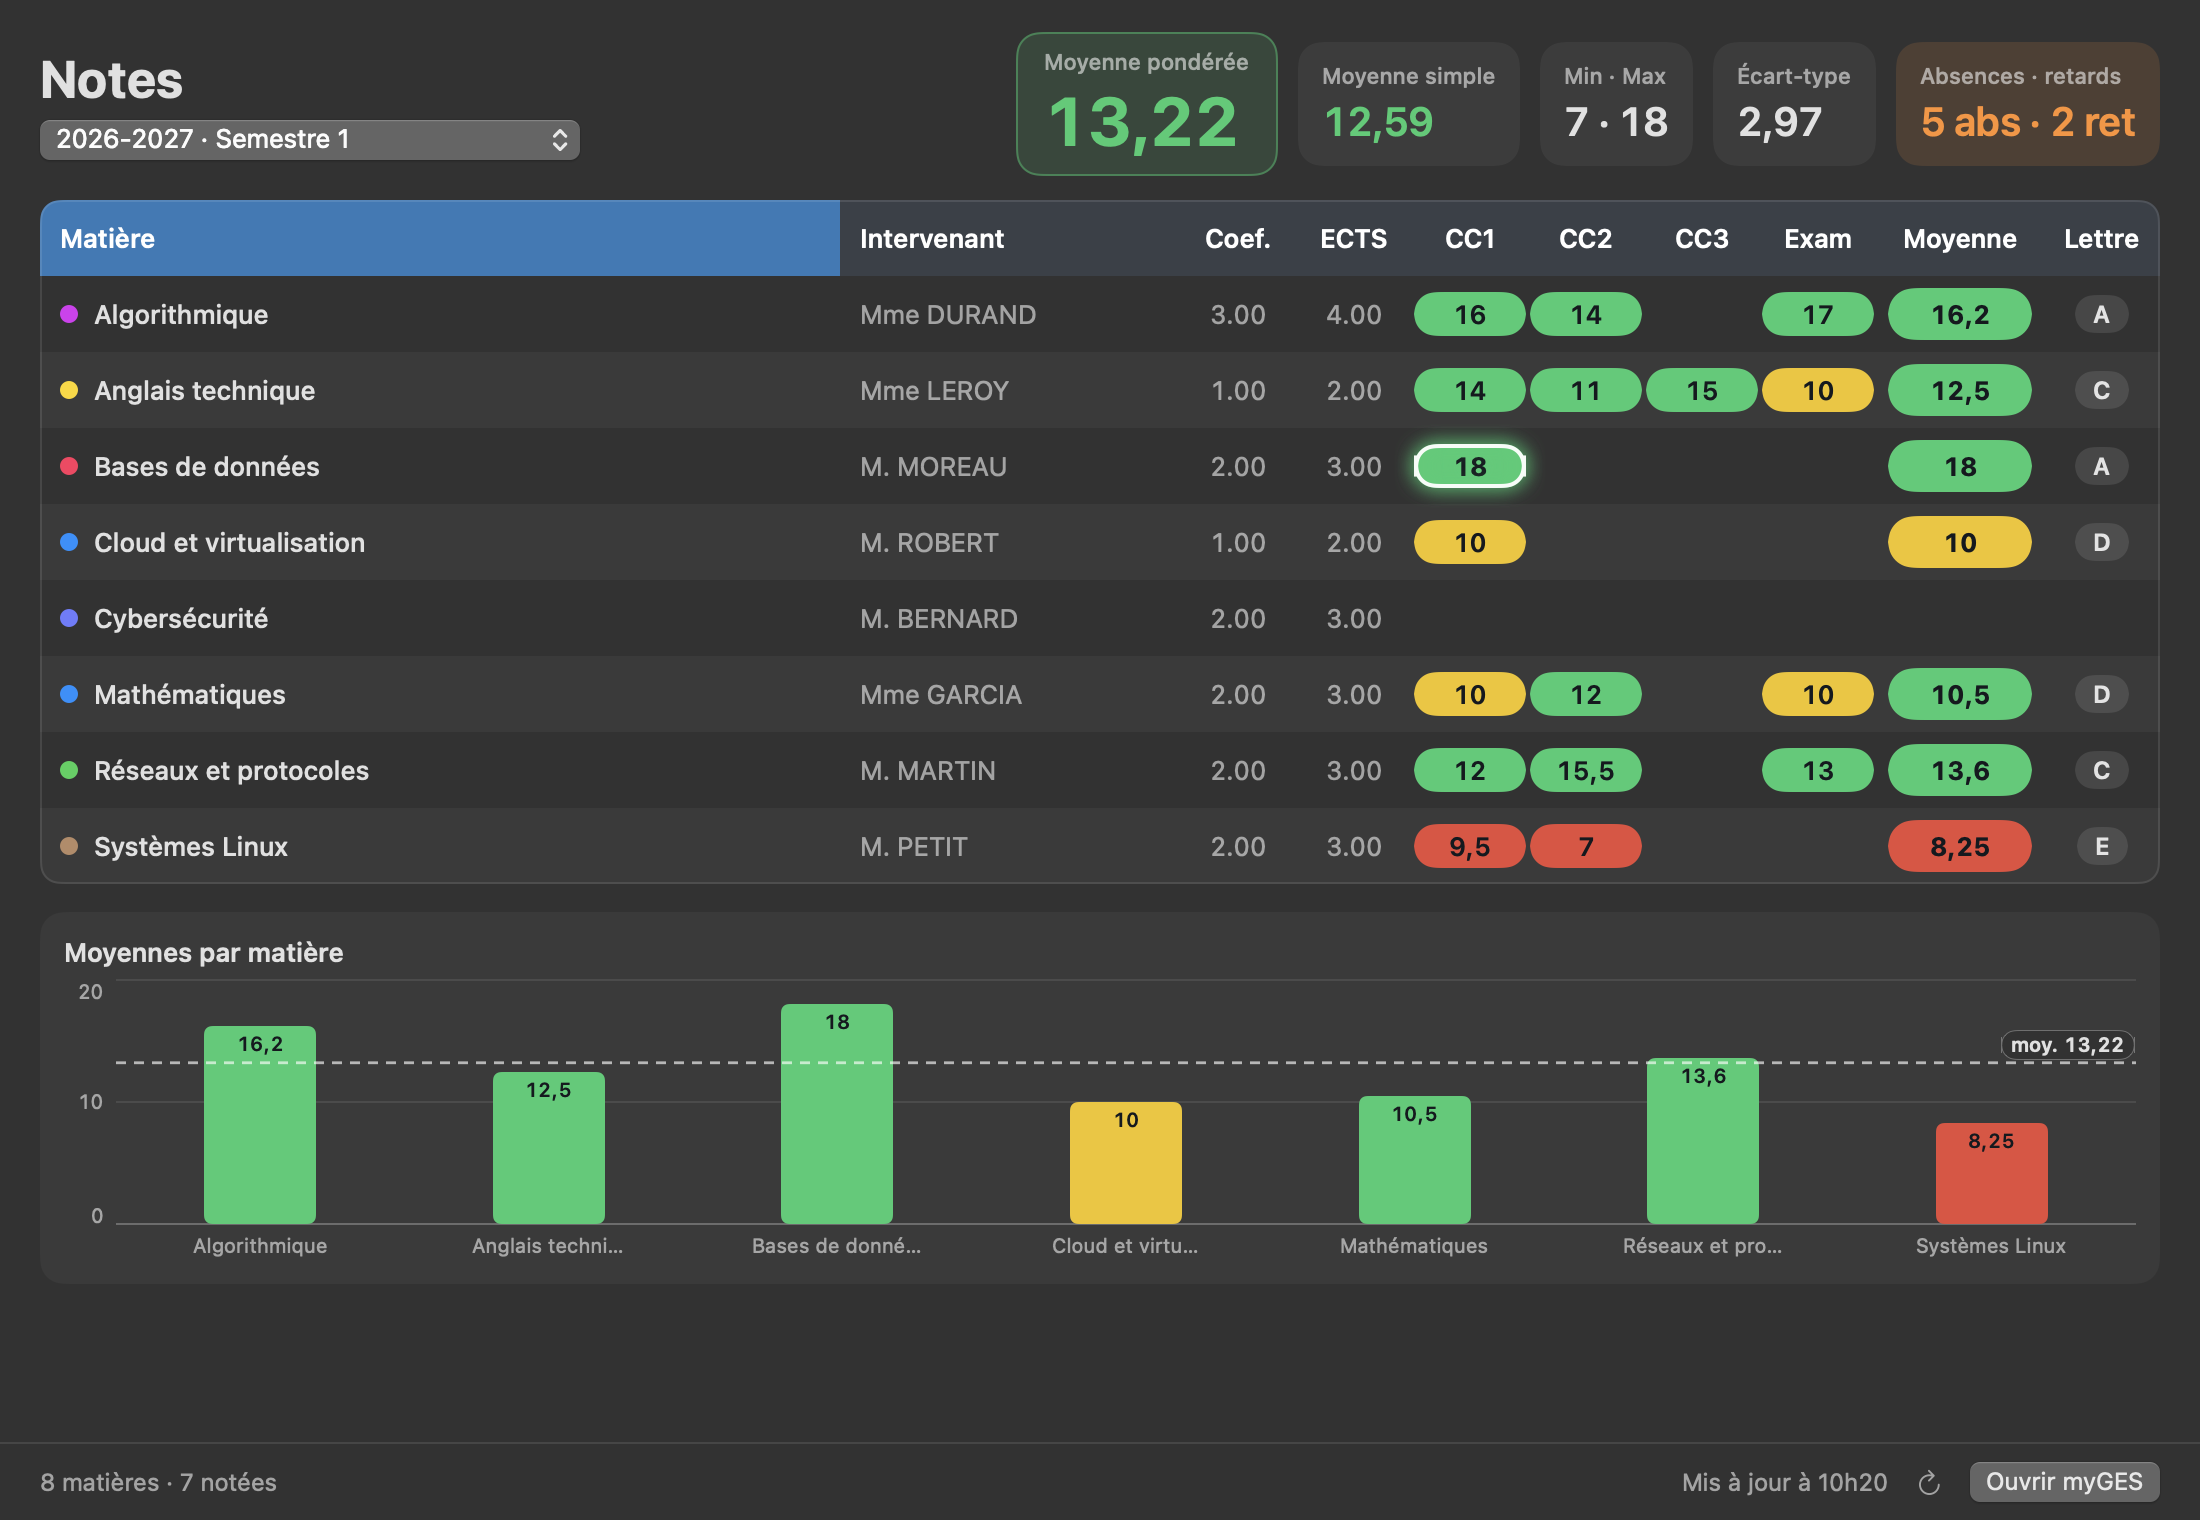
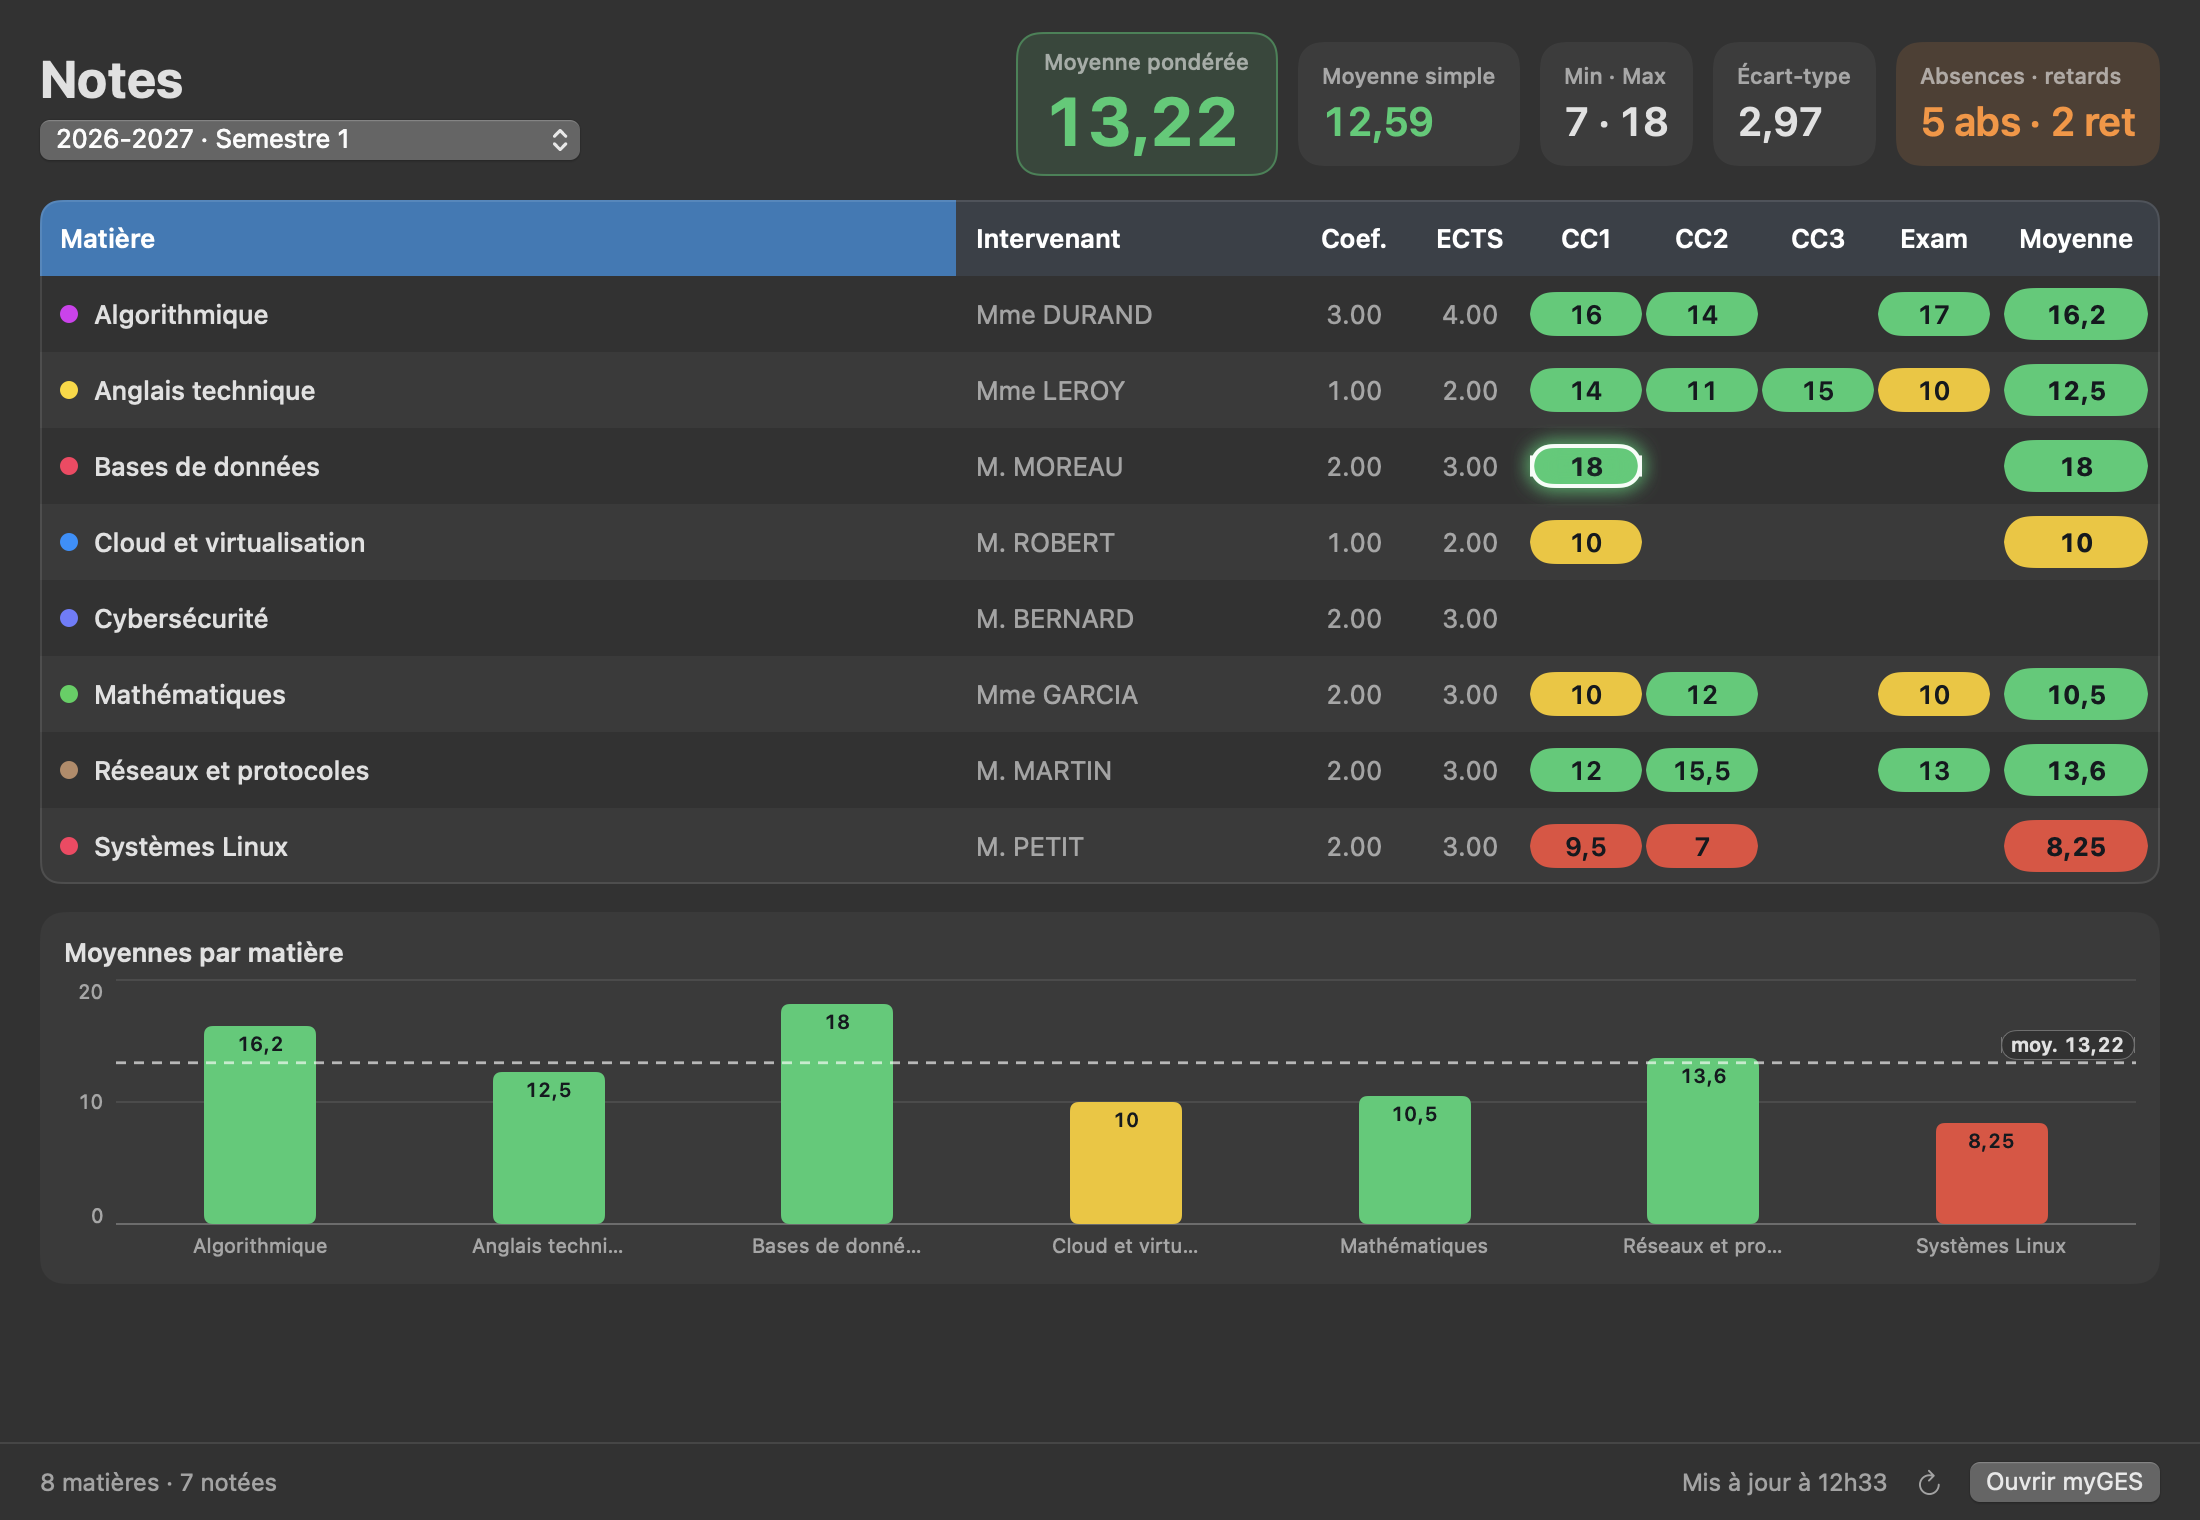
feat(notes): moyenne calculée dès la première note, colonne Lettre retirée
La moyenne d'une matière n'apparaissait que si myGES la fournissait. Elle est
maintenant calculée quand elle manque : CC seul, examen seul, ou moitié CC
moitié examen. La moyenne de myGES reste prioritaire. La moyenne pondérée et
le graphique comptent ces matières.

diff --git a/Sources/EduBar/Views/GradesTableView.swift b/Sources/EduBar/Views/GradesTableView.swift
@@ -219,7 +219,6 @@ struct GradesTableView: View {
                         ForEach(0..<ccCount, id: \.self) { headerCell("CC\($0 + 1)", fill: Self.headerDark) }
                         headerCell("Exam", fill: Self.headerDark)
                         headerCell(L10n.tr("Moyenne", "Average"), fill: Self.headerDark, width: Self.averageWidth)
-                        headerCell(L10n.tr("Lettre", "Letter"), fill: Self.headerDark)
                     }
                     ForEach(Array(subjects.enumerated()), id: \.element.id) { index, s in
                         let fill = index % 2 == 0 ? Color.clear : Color.primary.opacity(0.045)
@@ -240,9 +239,8 @@ struct GradesTableView: View {
                                 pill(value, fresh: fresh.contains("\(s.course)|CC\(i + 1)")).cell(fill: fill)
                             }
                             pill(s.exam, fresh: fresh.contains("\(s.course)|Examen")).cell(fill: fill)
-                            pill(s.average, fresh: fresh.contains("\(s.course)|Moyenne"), wide: true)
+                            pill(s.displayAverage, fresh: fresh.contains("\(s.course)|Moyenne"), wide: true)
                                 .cell(fill: fill, width: Self.averageWidth)
-                            letter(s.average != nil ? s.letterMark : nil).cell(fill: fill)
                         }
                     }
                 }
@@ -282,19 +280,6 @@ struct GradesTableView: View {
         }
     }
 
-    @ViewBuilder
-    private func letter(_ value: String?) -> some View {
-        if let value, !value.isEmpty {
-            Text(value)
-                .font(.system(size: 12, weight: .semibold))
-                .padding(.horizontal, 9)
-                .padding(.vertical, 2)
-                .background(Capsule().fill(Color.primary.opacity(0.12)))
-        } else {
-            Text("")
-        }
-    }
-
     private func title(_ s: GradeBook.Subject) -> String {
         s.shortCourse.prefix(1).uppercased() + s.shortCourse.dropFirst()
     }
@@ -302,7 +287,7 @@ struct GradesTableView: View {
     // MARK: - Graphique
 
     private func chart(book: GradeBook, period: GradeBook.Period) -> some View {
-        let items = book.subjects(in: period).compactMap { s in s.average.map { (s, $0) } }
+        let items = book.subjects(in: period).compactMap { s in s.displayAverage.map { (s, $0) } }
         let weighted = book.weightedAverage(in: period)
         return VStack(alignment: .leading, spacing: 6) {
             Text(L10n.tr("Moyennes par matière", "Averages by subject")).font(.system(size: 13, weight: .semibold))

diff --git a/Tests/EduBarCoreTests/MyGESTests.swift b/Tests/EduBarCoreTests/MyGESTests.swift
@@ -165,6 +165,37 @@ struct MyGESTests {
         #expect(try JSONDecoder().decode(GradeBook.Subject.self, from: JSONEncoder().encode(s)) == s)
     }
 
+    // MARK: Moyenne calculée
+
+    @Test func averageIsComputedWhenMyGESGivesNone() {
+        func s(_ grades: [Double], exam: Double? = nil, average: Double? = nil, cc: Double? = nil) -> GradeBook.Subject {
+            GradeBook.Subject(course: "M", grades: grades, exam: exam, average: average, ccAverage: cc)
+        }
+        // Une seule note suffit.
+        #expect(s([18]).displayAverage == 18)
+        #expect(s([15, 11.5]).displayAverage == 13.25)
+        // Examen seul.
+        #expect(s([], exam: 12).displayAverage == 12)
+        // CC et examen : moitié-moitié.
+        #expect(s([10, 14], exam: 16).displayAverage == 14)
+        // La moyenne de CC de myGES l'emporte sur la moyenne simple des notes.
+        #expect(s([10, 14], cc: 13).displayAverage == 13)
+        // La moyenne définitive de myGES reste prioritaire.
+        #expect(s([10, 14], exam: 16, average: 15.2).displayAverage == 15.2)
+        // Aucune note : pas de moyenne.
+        #expect(s([]).displayAverage == nil)
+    }
+
+    @Test func weightedAverageCountsComputedAverages() {
+        let book = GradeBook(subjects: [
+            .init(course: "A", grades: [10], coef: 1, trimester: 1, year: 2026),
+            .init(course: "B", grades: [12, 16], exam: 18, coef: 3, trimester: 1, year: 2026),
+            .init(course: "C", coef: 5, trimester: 1, year: 2026),
+        ])
+        // (10 × 1 + 16 × 3) / 4
+        #expect(book.weightedAverage(in: .init(year: 2026, trimester: 1, name: "S1")) == 14.5)
+    }
+
     // MARK: Périodes
 
     @Test func periodsSortedAndUnique() throws {
@@ -399,7 +430,8 @@ struct GradeStatsTests {
     @Test func marksAndStats() {
         #expect(book.marks(in: s1) == [12, 16, 14, 8])
         let st = book.stats(in: s1)
-        #expect(st.weighted == 14)
+        // « b » n'a pas de moyenne myGES : sa seule note (8) compte, (14 × 2 + 8 × 1) / 3.
+        #expect(st.weighted == 12)
         #expect(st.simple == 12.5)
         #expect(st.min == 8)
         #expect(st.max == 16)

diff --git a/Sources/EduBarCore/MyGES/GESGrades.swift b/Sources/EduBarCore/MyGES/GESGrades.swift
@@ -152,6 +152,19 @@ public struct GradeBook: Codable, Sendable, Equatable {
             return String(course[range.upperBound...])
         }
 
+        /// Moyenne affichée : celle de myGES quand elle existe, sinon calculée dès la première note.
+        /// CC seul : moyenne de CC ; examen seul : l'examen ; les deux : moitié CC, moitié examen.
+        public var displayAverage: Double? {
+            if let average { return average }
+            let cc = ccAverage ?? (grades.isEmpty ? nil : grades.reduce(0, +) / Double(grades.count))
+            switch (cc, exam) {
+            case let (cc?, exam?): return (cc + exam) / 2
+            case let (cc?, nil): return cc
+            case let (nil, exam?): return exam
+            case (nil, nil): return nil
+            }
+        }
+
         /// La période de la matière, ou `nil` si l'année ou le semestre manque.
         public var period: Period? {
             guard let year, let trimester else { return nil }
@@ -219,7 +232,7 @@ public struct GradeBook: Codable, Sendable, Equatable {
     public func weightedAverage(in period: Period) -> Double? {
         var sum = 0.0, weight = 0.0
         for s in subjects(in: period) {
-            guard let a = s.average, let c = s.coef, c > 0 else { continue }
+            guard let a = s.displayAverage, let c = s.coef, c > 0 else { continue }
             sum += a * c
             weight += c
         }

diff --git a/Sources/EduBar/Snapshot.swift b/Sources/EduBar/Snapshot.swift
@@ -202,7 +202,8 @@ enum Snapshot {
               coef: 2, ects: 3, teacher: "M. MOREAU", trimester: 120, year: 2026, trimesterName: "Semestre 1", letterMark: "A"),
         .init(course: "S1 - Mathématiques", grades: [10, 12], exam: 10, average: 10.5, ccAverage: 11,
               coef: 2, ects: 3, teacher: "Mme GARCIA", trimester: 120, year: 2026, trimesterName: "Semestre 1", letterMark: "D"),
-        .init(course: "S1 - Cloud et virtualisation", grades: [10], exam: nil, average: 10, ccAverage: 10,
+        // Sans moyenne myGES : celle affichée est calculée depuis la seule note.
+        .init(course: "S1 - Cloud et virtualisation", grades: [10], exam: nil, average: nil, ccAverage: nil,
               coef: 1, ects: 2, teacher: "M. ROBERT", trimester: 120, year: 2026, trimesterName: "Semestre 1", letterMark: "D"),
         .init(course: "S1 - Cybersécurité", grades: [], exam: nil, average: nil, ccAverage: nil,
               coef: 2, ects: 3, teacher: "M. BERNARD", trimester: 120, year: 2026, trimesterName: "Semestre 1",

diff --git a/README.md b/README.md
@@ -59,7 +59,7 @@ Les captures montrent des matières, des salles, des prénoms et une météo fic
 
 - **Changements d'emploi du temps.** Un cours annulé, déplacé, ajouté ou changé de salle dans les deux semaines à venir envoie une notification : `❌ Cours annulé · demain 14h`, `🔁 Cours déplacé · …`, `📍 Salle changée · 501`, ou `📍 Salle attribuée · 501` quand un cours sans salle en reçoit une. Avec myGES, l'emploi du temps est celui du planning officiel, relu toutes les 15 min, 8 semaines à l'avance.
 - **Évènements de l'école.** Le planning myGES mêle aux cours des animations de l'école (conférences, midis de l'info, sport). EduBar n'affiche que les cours par défaut ; chaque série d'évènements peut être ajoutée dans ⚙ > **Calendrier** > **Évènements de l'école**.
-- **Notes.** Le bouton 🎓 du menu ouvre une fenêtre qui reprend le tableau de myGES, sur le principe de [MyPrettyGradES](https://github.com/Ailcope/MyPrettyGradES) : notes colorées (vert au-dessus de 10, jaune à 10, rouge en dessous), moyenne et lettre par matière, tuiles de statistiques (moyenne pondérée, moyenne simple, min, max, écart-type, absences et retards) et graphique des moyennes par matière avec le repère de la moyenne pondérée. Un sélecteur choisit l'année scolaire et le semestre ; par défaut, celui des cours en cours dans l'agenda, ou le dernier semestre qui a des notes. Les nouvelles notes sont surlignées, et dès qu'une apparaît sur myGES, une notification : `Nouvelle note : Sécurité des réseaux` · `CC2 : 15,5/20`. Désactivable dans ⚙ > **Notifications**.
+- **Notes.** Le bouton 🎓 du menu ouvre une fenêtre qui reprend le tableau de myGES, sur le principe de [MyPrettyGradES](https://github.com/Ailcope/MyPrettyGradES) : notes colorées (vert au-dessus de 10, jaune à 10, rouge en dessous), moyenne par matière, calculée dès la première note quand myGES ne la donne pas encore, tuiles de statistiques (moyenne pondérée, moyenne simple, min, max, écart-type, absences et retards) et graphique des moyennes par matière avec le repère de la moyenne pondérée. Un sélecteur choisit l'année scolaire et le semestre ; par défaut, celui des cours en cours dans l'agenda, ou le dernier semestre qui a des notes. Les nouvelles notes sont surlignées, et dès qu'une apparaît sur myGES, une notification : `Nouvelle note : Sécurité des réseaux` · `CC2 : 15,5/20`. Désactivable dans ⚙ > **Notifications**.
 
   <picture><source media="(prefers-color-scheme: dark)" srcset="docs/screenshots/grades-dark.png"><img src="docs/screenshots/grades.png" width="680" alt="Fenêtre des notes, tableau par semestre"></picture>
 - **Jours suivants.** Les flèches ‹ › du menu passent d'un jour à l'autre (les week-ends vides sont sautés), **Revenir** ramène à aujourd'hui.

diff --git a/README.en.md b/README.en.md
@@ -108,7 +108,7 @@ Screenshots show made-up subjects, rooms, names and weather (`EduBar --snapshot 
 - **Language.** In ⚙ > **App** > **Language**: Automatic (French if French is among the Mac's languages, otherwise English), Français or English. The change applies immediately, no relaunch: menu, menu bar, notifications, dates. Course names, rooms and instructors come from myGES and are not translated.
 - **Copy diagnostics.** A button at the bottom of the settings copies the version, app location, quarantine and calendar state for a bug report. Never the URL.
 - **School events.** The myGES schedule mixes school events (talks, lunch sessions, sport) with classes. EduBar shows classes only by default; each event series can be added in ⚙ > **Calendrier** > **Évènements de l'école**.
-- **Grades.** The 🎓 button opens a window that mirrors the myGES table, in the spirit of [MyPrettyGradES](https://github.com/Ailcope/MyPrettyGradES): colored marks (green above 10, yellow at 10, red below), average and letter per subject, stat tiles (weighted average, plain average, min, max, standard deviation, absences and lates) and a bar chart of the averages per subject with the weighted-average marker. A picker selects the school year and semester; by default, the one of the classes currently in the agenda, or the latest semester that has marks. New marks are highlighted, and as soon as a grade appears on myGES, a notification: `Nouvelle note : Sécurité des réseaux` · `CC2 : 15,5/20`. Can be turned off in ⚙ > **Notifications**.
+- **Grades.** The 🎓 button opens a window that mirrors the myGES table, in the spirit of [MyPrettyGradES](https://github.com/Ailcope/MyPrettyGradES): colored marks (green above 10, yellow at 10, red below), average per subject, computed from the first mark when myGES does not give it yet, stat tiles (weighted average, plain average, min, max, standard deviation, absences and lates) and a bar chart of the averages per subject with the weighted-average marker. A picker selects the school year and semester; by default, the one of the classes currently in the agenda, or the latest semester that has marks. New marks are highlighted, and as soon as a grade appears on myGES, a notification: `Nouvelle note : Sécurité des réseaux` · `CC2 : 15,5/20`. Can be turned off in ⚙ > **Notifications**.
 
   <picture><source media="(prefers-color-scheme: dark)" srcset="docs/screenshots/grades-dark.png"><img src="docs/screenshots/grades.png" width="680" alt="Grades window, table per semester"></picture>
 
